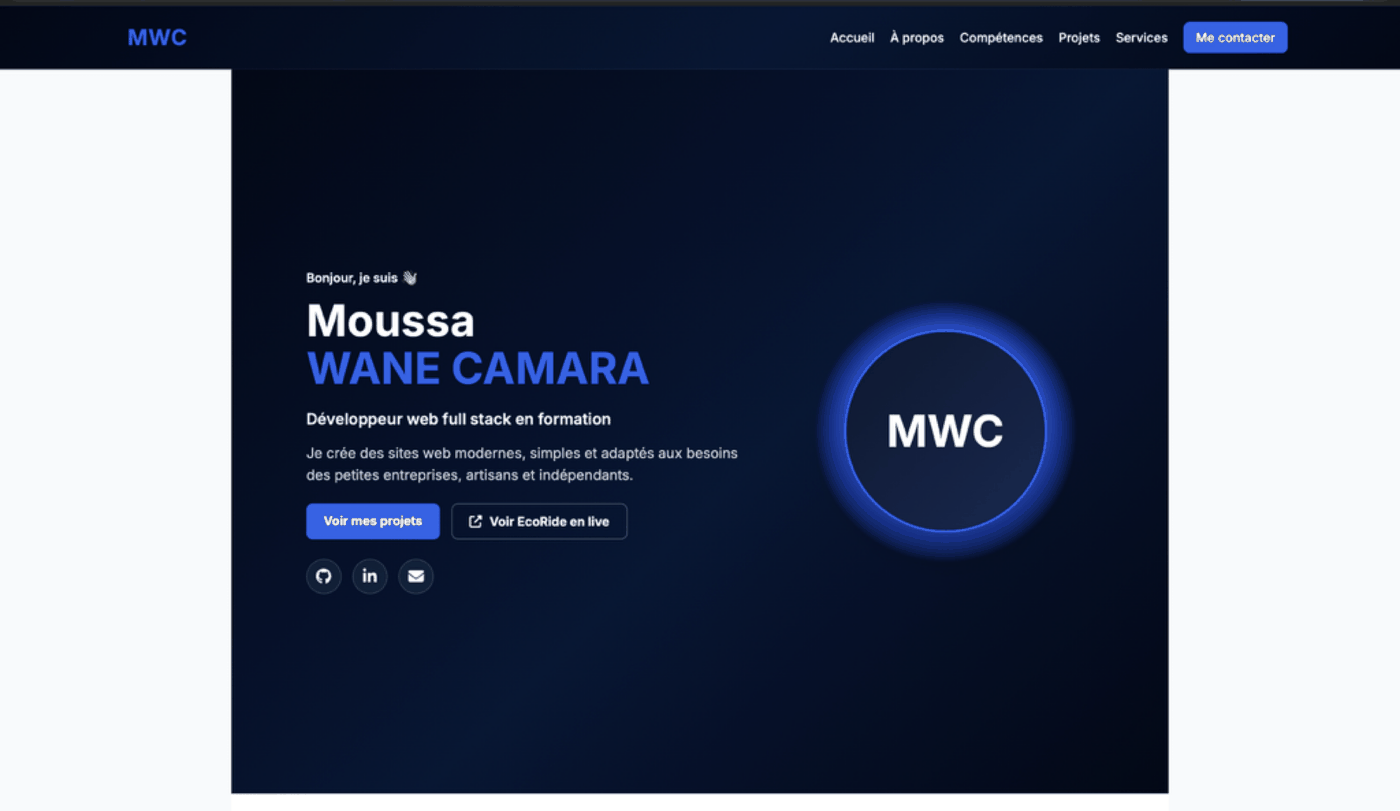
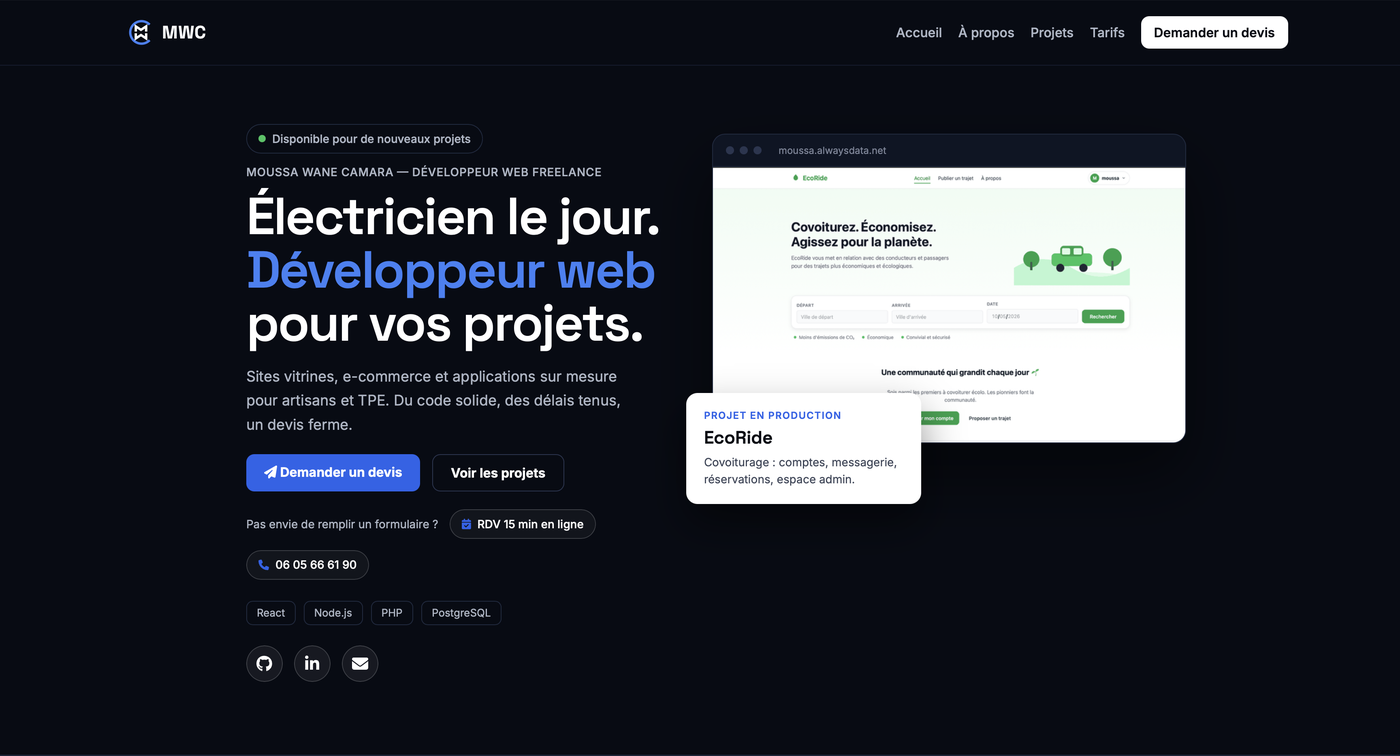
Nouvelle capture du site et aperçu de partage

diff --git a/index.html b/index.html
@@ -16,14 +16,14 @@
   <meta property="og:description" content="Sites vitrines, e-commerce et applications web sur mesure pour TPE et artisans du 92. Devis gratuit, réponse sous 24h.">
   <meta property="og:locale" content="fr_FR">
   <meta property="og:url" content="https://moussa-wanecamara.netlify.app/">
-  <meta property="og:image" content="https://moussa-wanecamara.netlify.app/assets/og-card.png">
+  <meta property="og:image" content="https://moussa-wanecamara.netlify.app/assets/og-card-v2.png">
   <meta property="og:image:width" content="1200">
   <meta property="og:image:height" content="630">
   <meta property="og:image:alt" content="Moussa WANE CAMARA — Développeur web freelance à Vaucresson (92)">
   <meta name="twitter:card" content="summary_large_image">
   <meta name="twitter:title" content="Moussa WANE CAMARA — Dev web freelance">
   <meta name="twitter:description" content="Sites vitrines, e-commerce et applis sur mesure pour TPE du 92. Devis sous 48h.">
-  <meta name="twitter:image" content="https://moussa-wanecamara.netlify.app/assets/og-card.png">
+  <meta name="twitter:image" content="https://moussa-wanecamara.netlify.app/assets/og-card-v2.png">
 
   <script type="application/ld+json">
   {
